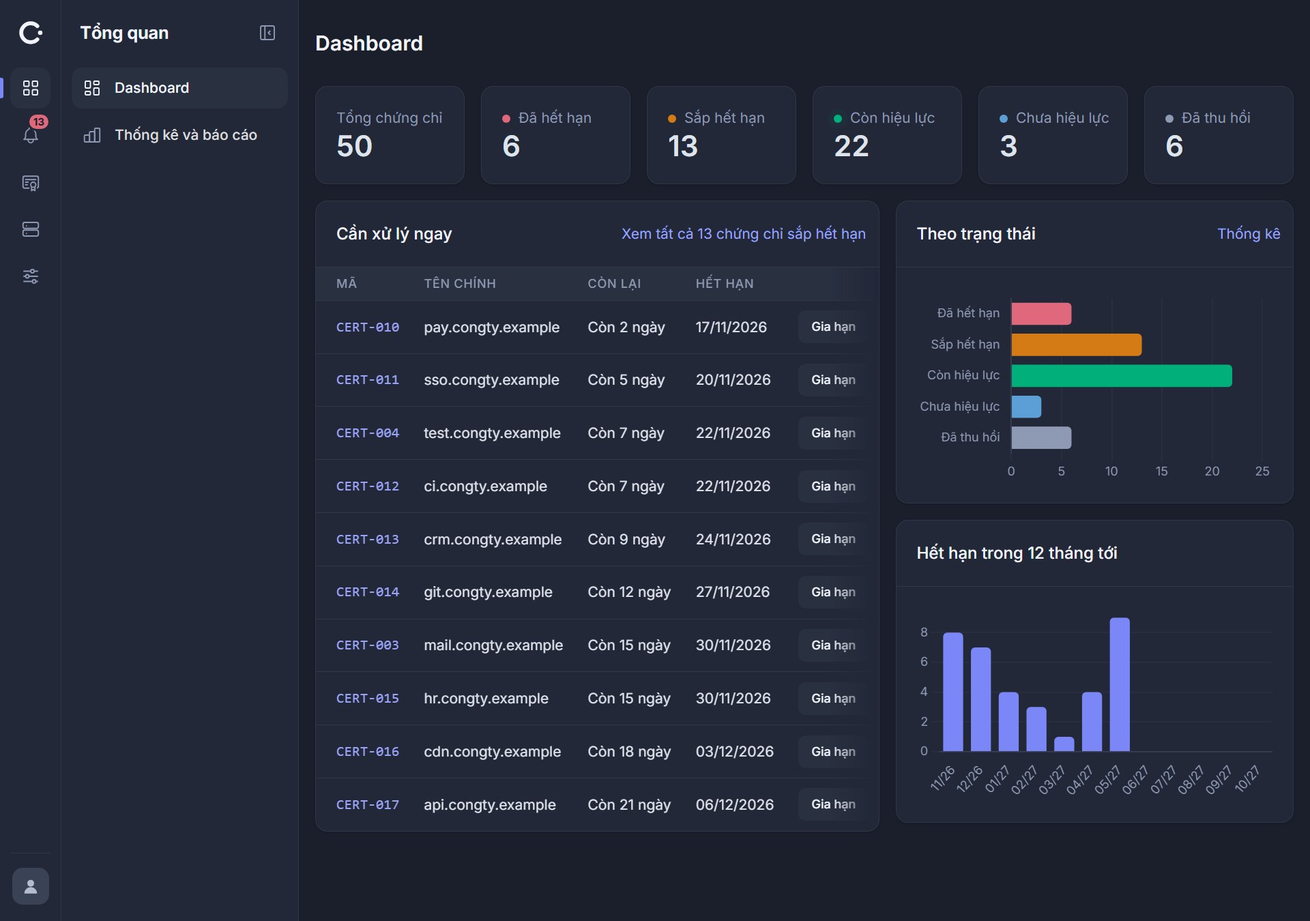
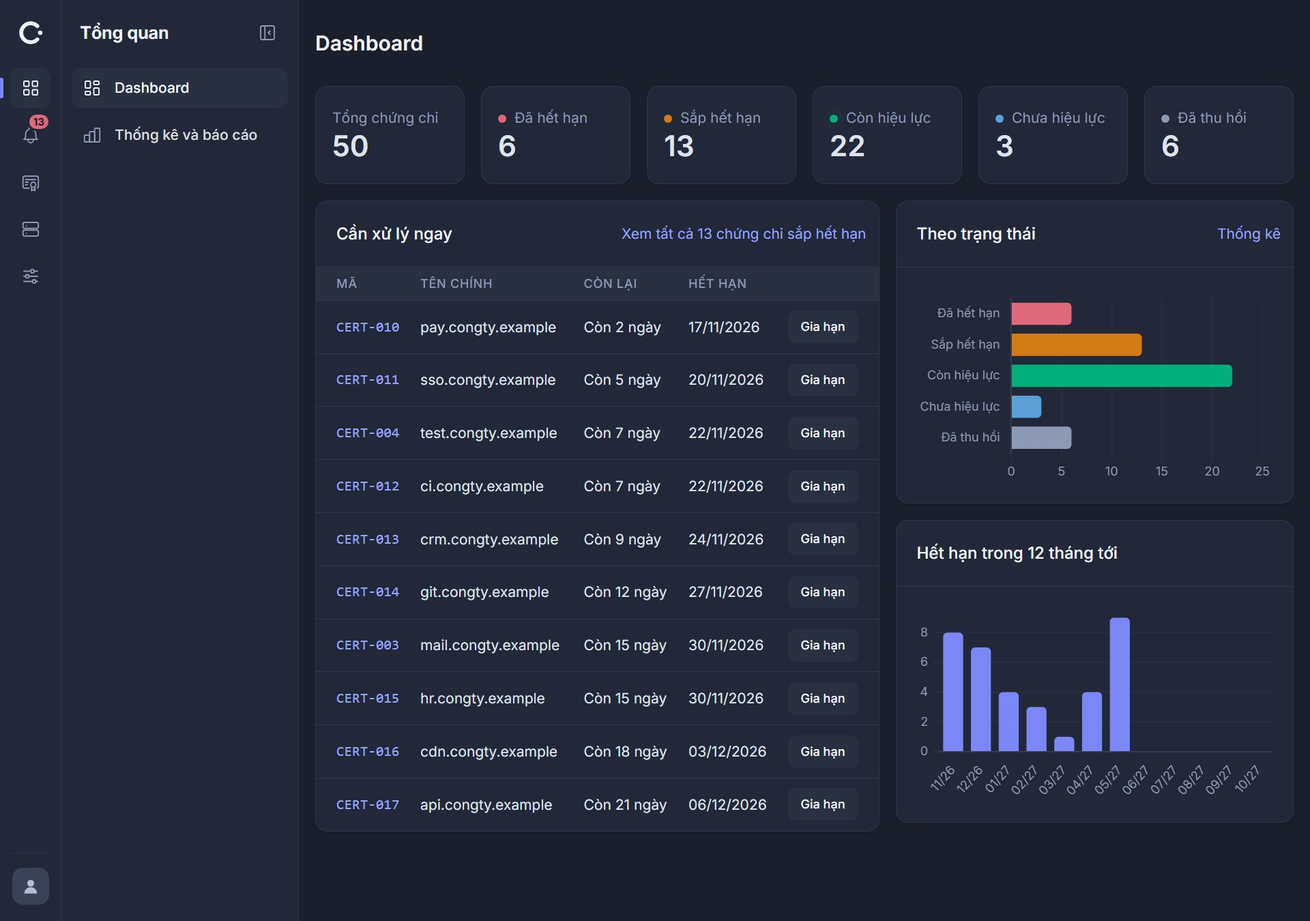
Hướng dẫn cài đặt có ảnh thật từng bước; sửa nút Gia hạn bị che ở màn 1280px và ô Sắp xếp theo bị che chữ
VÌ SAO
User 15/11/2026: "làm nốt phần trước khi nộp đi, thêm cả hướng dẫn chi tiết có ảnh nữa. Cần thì hướng dẫn tôi chụp".
Phần trước khi nộp là ba chỗ đã báo ở phiếu trước: ô Sắp xếp theo bị che chữ, ảnh sau gia hạn không thấy bảng lịch sử,
báo cáo thiếu ảnh cửa sổ CHAY.bat, XAMPP Control Panel, phpMyAdmin. Trong lúc kiểm lại tìm thêm một lỗi do chính commit
6322d55 gây ra (dưới đây).

SỬA LỖI
- Dashboard, nút Gia hạn bị che một nửa ở 1240–1270px. 6322d55 cho tên chính không xuống dòng, bảng Cần xử lý ngay (rộng
  7/12) không còn chỗ co nên tràn khung. Lần rà trước chụp đúng 1280px không có thanh cuộn nên không thấy; bề rộng thật
  của màn 1280px (hay 1920px đặt 150%) là khoảng 1265px. Sửa: bảng thêm lớp bang-cot-sat, app.css thu lề ngang của ô
  bảng đó còn 0.5rem ở 1200–1399px; cùng khoảng đó thu lề thẻ số còn 1rem để "Tổng chứng chỉ" không gãy hai dòng (lỗi có
  từ trước). Chụp lại 1240, 1265, 1351px: nút hiện đủ, nhãn một dòng. Ở 1200–1239px (hiếm) nút vẫn bị che một phần và
  kéo ngang được.
- views/bo_loc.php: 576–1199px hai ô lọc một hàng, 1200–1399px ba ô, từ 1400px sáu ô. Ba ô ở 768–1199px (6322d55) thì ô
  Sắp xếp theo rộng 208px, "Hết hạn gần nhất trước" cần 217px nên mất chữ cuối ở 768–800px và 992–1050px. Chụp 600,
  800, 1000, 1024, 1210, 1280px: hiện đủ.

BÁO CÁO
- docs/BAO_CAO.md Phần VI thêm 5 ảnh chụp từ máy thật: thu_muc_giai_nen (danh sách file sau giải nén), chay_bat (cửa
[…]

diff --git a/public/assets/app.css b/public/assets/app.css
@@ -359,6 +359,23 @@
     line-height: 1.2;
 }
 
+/* Dashboard ở 1200–1399px (màn 1280 và 1366 hay gặp): sáu thẻ số một hàng, bảng Cần xử lý ngay chỉ rộng 7/12 phần nội
+   dung. Thu lề ngang của thẻ số và của ô bảng (.bang-cot-sat), để "Tổng chứng chỉ" không gãy hai dòng và nút Gia hạn
+   không bị đẩy ra ngoài khung. Đo 15/11/2026 ở 1265px, là bề rộng thật của màn 1280px sau khi trừ thanh cuộn: trước
+   khi thu, nút Gia hạn bị che một nửa vì tên chính không còn xuống dòng. */
+@media (min-width: 1200px) and (max-width: 1399.98px) {
+    .the-so .card-body {
+        padding-left: 1rem;
+        padding-right: 1rem;
+    }
+
+    .bang-cot-sat > * > tr > td,
+    .bang-cot-sat > * > tr > th {
+        padding-left: 0.5rem;
+        padding-right: 0.5rem;
+    }
+}
+
 /* Chấm "Còn hiệu lực": vòng sáng lan ra rồi tan, 2 giây một lần, như đèn "đang chạy" (user chốt 07/11/2026).
    Vẽ bằng box-shadow nên không đẩy chữ bên cạnh; màu là màu xanh trạng thái. */
 .cham-song {

diff --git a/temp/cong_cu_bao_cao/chup_het.py b/temp/cong_cu_bao_cao/chup_het.py
@@ -1,5 +1,6 @@
 """Chụp toàn bộ ảnh giao diện cho báo cáo. Chạy: python -I chup_het.py [nhom ...]
 Nhóm: cong_khai, xem, nhan_vien, nhap_lieu, doc, nhat_ky. Không ghi nhóm thì chạy hết theo thứ tự.
+Nhóm cai_dat (chỉ chạy khi gọi tên): hai ảnh phpMyAdmin của hướng dẫn cài đặt, cần Apache của XAMPP đang bật.
 Nhóm landing (chỉ chạy khi gọi tên): chụp lại 9 ảnh public/assets/landing/*.webp; chạy TRƯỚC nhóm nhap_lieu, vì nhóm
 đó gia hạn CERT-013 là chứng chỉ của hai ảnh thẻ Chi tiết và Gia hạn."""
 import sys
@@ -94,6 +95,63 @@ def nhat_ky():
         Phien().post("/login.php", {"username": "nhanvien", "password": "doan-mo"})
     chup("nhat_ky", "/admin/nhat_ky.php", ad, h=1000)
     chup("nhat_ky_nguy_hiem", "/admin/nhat_ky.php?muc=nguy_hiem", ad, h=620)
+
+
+def cai_dat():
+    """Hai ảnh phpMyAdmin cho Phần VI của báo cáo (Cách 2). Cần Apache của XAMPP đang bật (http://localhost/phpmyadmin).
+    Giao diện tiếng Anh (cookie pma_lang=en) cho khớp chữ trong hướng dẫn. Ảnh tạo CSDL vẽ lại trạng thái máy người chấm
+    lúc CHƯA có cipher_dev: ẩn các CSDL có sẵn trên máy chụp (AN) khỏi cây bên trái và bảng, sửa dòng Total theo số dòng
+    còn lại; không bấm Create, không đụng CSDL nào. Ba ảnh còn lại của phần cài đặt chụp bằng chup_cua_so.ps1:
+      - chay_bat: conhost.exe cmd.exe /c "<bản giải nén>\\CHAY.bat", chờ 17 giây (10 giây của câu hỏi nạp lại), rồi
+        -TieuDe "Cipher Cert" -Lop ConsoleWindowClass; đóng cửa sổ là tắt web.
+      - xampp_control: chạy C:\\xampp\\apache\\bin\\httpd.exe và C:\\xampp\\xampp-control.exe, -MaTienTrinh <mã của
+        xampp-control>; ứng dụng này không theo tỉ lệ màn hình nên ảnh ra có phần thừa, cắt còn 663x433; xong thì tắt cả hai.
+      - thu_muc_giai_nen: explorer.exe <bản giải nén>, -TieuDe "cipher" -Lop CabinetWClass -VungCon UIItemsView."""
+    from chup import Cdp
+    pma = "http://localhost/phpmyadmin/"
+    an = ["cipher_dev", "cipher_test", "cipher_baocao", "demo_xampp"]
+    js_an = """
+    (function (an, anNhom) {
+        var n = 0;
+        document.querySelectorAll('#pma_navigation_tree li').forEach(function (li) {
+            var a = li.querySelector(':scope > a, :scope > a.hover_show_full');
+            var ten = a ? a.textContent.trim() : '';
+            if (an.indexOf(ten) >= 0 || (anNhom && li.className.indexOf('navGroup') >= 0 && li.textContent.trim().indexOf(anNhom) === 0)) {
+                li.style.display = 'none'; n++;
+            }
+        });
+        document.querySelectorAll('table tbody tr').forEach(function (tr) {
+            var co = false;
+            tr.querySelectorAll('a').forEach(function (a) { if (an.indexOf(a.textContent.trim()) >= 0) co = true; });
+            if (co) { tr.style.display = 'none'; n++; }
+        });
+        return n;
+    })(%s, %s)
+    """
+    js_dien = """
+    (function () {
+        document.querySelector('#text_create_db').value = 'cipher_dev';
+        document.querySelector('select[name=db_collation]').value = 'utf8mb4_unicode_ci';
+        var dem = document.getElementById('filter-rows-count'), con = 0;
+        if (dem && dem.closest('table')) {
+            dem.closest('table').querySelectorAll('tbody tr').forEach(function (tr) { if (tr.style.display !== 'none') con++; });
+            dem.textContent = con;
+        }
+        return con;
+    })()
+    """
+    c = Cdp(w=1280, h=640)
+    try:
+        c.lenh("Network.enable")
+        c.lenh("Network.setCookie", name="pma_lang", value="en", domain="localhost", path="/phpmyadmin/")
+        c.mo(pma + "index.php?route=/server/databases", cho=4)
+        print("   an", c.js(js_an % (an, '"cipher"')), "muc; con", c.js(js_dien), "CSDL trong bang")
+        c.chup("pma_tao_csdl")
+        c.mo(pma + "index.php?route=/database/import&db=cipher_dev", cho=4)
+        c.js(js_an % ([x for x in an if x != "cipher_dev"], "null"))
+        c.chup("pma_import")
+    finally:
+        c.dong()
 
 
 def landing():

diff --git a/temp/cong_cu_bao_cao/chup.py b/temp/cong_cu_bao_cao/chup.py
@@ -95,3 +95,90 @@ def luu_html(ten, html):
     thu_muc.mkdir(exist_ok=True)
     (thu_muc / f"{ten}.html").write_text(html, encoding="utf-8")
     return f"/__kq/{ten}.html"
+
+
+class Cdp:
+    """Điều khiển Chrome chạy ngầm qua cổng gỡ lỗi (Chrome DevTools Protocol), cho trang phải gõ, chọn rồi mới chụp
+    (phpMyAdmin trong hướng dẫn cài đặt). WebSocket viết tay bằng thư viện chuẩn, để không phải cài thêm gì.
+    Dùng: c = Cdp(w=1280, h=800); c.mo(url); c.js("..."); c.chup("ten"); c.dong()"""
+
+    def __init__(self, w=1280, h=800, ti_le=1.5, ngon_ngu="en-US", cong=9333):
+        import json, os, socket, time
+        self.json, self.os, self.time = json, os, time
+        self.tt = subprocess.Popen([CHROME, "--headless=new", f"--remote-debugging-port={cong}", "--remote-allow-origins=*",
+                                    "--disable-gpu", "--hide-scrollbars", "--no-first-run", f"--lang={ngon_ngu}",
+                                    f"--user-data-dir={TAM / 'chrome_cdp'}", f"--force-device-scale-factor={ti_le}",
+                                    f"--window-size={w},{h}", "about:blank"], stdout=subprocess.DEVNULL, stderr=subprocess.DEVNULL)
+        ds = None
+        for _ in range(60):
+            try:
+                ds = json.load(urllib.request.urlopen(f"http://127.0.0.1:{cong}/json"))
+                break
+            except OSError:
+                time.sleep(0.25)
+        duong = next(d for d in ds if d["type"] == "page")["webSocketDebuggerUrl"].split(f":{cong}", 1)[1]
+        self.s = socket.create_connection(("127.0.0.1", cong))
+        khoa = __import__("base64").b64encode(os.urandom(16)).decode()
+        self.s.sendall((f"GET {duong} HTTP/1.1\r\nHost: 127.0.0.1:{cong}\r\nUpgrade: websocket\r\nConnection: Upgrade\r\n"
+                        f"Sec-WebSocket-Key: {khoa}\r\nSec-WebSocket-Version: 13\r\n\r\n").encode())
+        dem = b""
+        while b"\r\n\r\n" not in dem:
+            dem += self.s.recv(4096)
+        self.du = dem.split(b"\r\n\r\n", 1)[1]
+        self.so = 0
+
+    def _doc(self, n):
+        while len(self.du) < n:
+            self.du += self.s.recv(65536)
+        d, self.du = self.du[:n], self.du[n:]
+        return d
+
+    def _nhan(self):
+        import struct
+        tin = b""
+        while True:
+            b1, b2 = self._doc(2)
+            n = b2 & 0x7F
+            if n == 126:
+                n = struct.unpack(">H", self._doc(2))[0]
+            elif n == 127:
+                n = struct.unpack(">Q", self._doc(8))[0]
+            than = self._doc(n)
+            if b1 & 0x0F in (0, 1, 2):
+                tin += than
+                if b1 & 0x80:
+                    return tin.decode("utf-8", "replace")
+
+    def lenh(self, phuong_thuc, **tham_so):
+        import struct
+        self.so += 1
+        d = self.json.dumps({"id": self.so, "method": phuong_thuc, "params": tham_so}).encode()
+        mat = self.os.urandom(4)
+        n = len(d)
+        dau = bytes([0x81]) + (bytes([0x80 | n]) if n < 126 else bytes([0x80 | 126]) + struct.pack(">H", n) if n < 65536
+                               else bytes([0x80 | 127]) + struct.pack(">Q", n))
+        self.s.sendall(dau + mat + bytes(b ^ mat[i % 4] for i, b in enumerate(d)))
+        while True:
+            tl = self.json.loads(self._nhan())
+            if tl.get("id") == self.so:
+                return tl.get("result", tl)
+
+    def mo(self, url, cho=3.0):
+        self.lenh("Page.navigate", url=url)
+        self.time.sleep(cho)
+
+    def js(self, ma, cho=0.5):
+        kq = self.lenh("Runtime.evaluate", expression=ma, awaitPromise=True, returnByValue=True)
+        self.time.sleep(cho)
+        return kq.get("result", {}).get("value")
+
+    def chup(self, ten):
+        import base64
+        ra = ANH / f"{ten}.png"
+        ra.write_bytes(base64.b64decode(self.lenh("Page.captureScreenshot", format="png")["data"]))
+        print("da chup", ra.name)
+        return ra
+
+    def dong(self):
+        self.s.close()
+        self.tt.terminate()

diff --git a/tests/chay.php b/tests/chay.php
@@ -1678,9 +1678,9 @@ function test_chu_quan_trong_trong_quan_tri_la_chu_trang(PDO $pdo): void
     kiem(str_contains($css, '--tblr-body-color: var(--qt-chu-than)'), 'Chữ thân khu quản trị phải dùng --qt-chu-than (trắng ngà)');
 }
 
-// Luật: Mọi bảng của khu quản trị hiện đủ cột ở mọi cỡ màn hình; dưới 1200px chữ không xuống dòng (trừ ô dài đánh dấu o-xuong-dong) và bảng tràn thì kéo ngang; tên chính ở bảng Cần xử lý ngay của Dashboard không xuống dòng ở mọi cỡ. Trang danh sách chứng chỉ không có nút Thêm riêng.
+// Luật: Mọi bảng của khu quản trị hiện đủ cột ở mọi cỡ màn hình; dưới 1200px chữ không xuống dòng (trừ ô dài đánh dấu o-xuong-dong) và bảng tràn thì kéo ngang; tên chính ở bảng Cần xử lý ngay của Dashboard không xuống dòng ở mọi cỡ, và ở 1200–1399px bảng đó thu lề ô để nút Gia hạn không bị đẩy ra ngoài khung. Trang danh sách chứng chỉ không có nút Thêm riêng.
 // Vì sao: User 09/11/2026: "trên điện thoại bị cắt nhiều thông tin. Tôi muốn khi tràn thông tin thì phải được quyền kéo sang trái để xem", rồi "áp cùng" cho mọi bảng; nút Thêm chứng chỉ đã có trong bảng phụ. Rà 15/11/2026: ở 1024px còn bảng phụ bên trái nên bảng Danh sách gãy tên chính ba dòng, mốc nâng từ 992px lên 1200px.
-// Đỏ nghĩa là: Một cột lại ẩn theo cỡ màn hình (d-none ... -table-cell), một bảng card-table thiếu lớp bang-keo-ngang, chung_chi.php đặt lại $nutThem, mốc không xuống dòng trong app.css tụt khỏi 1200px, hoặc ô tên chính của Dashboard mất text-nowrap.
+// Đỏ nghĩa là: Một cột lại ẩn theo cỡ màn hình (d-none ... -table-cell), một bảng card-table thiếu lớp bang-keo-ngang, chung_chi.php đặt lại $nutThem, mốc không xuống dòng trong app.css tụt khỏi 1200px, ô tên chính của Dashboard mất text-nowrap, hoặc bảng Dashboard mất lớp bang-cot-sat (ở 1265px, bề rộng thật của màn 1280px, nút Gia hạn bị che một nửa; đo 15/11/2026).
 // Đừng: Ẩn cột hay dồn thông tin xuống dòng phụ chỉ hiện trên điện thoại cho "vừa màn hình"; người dùng muốn kéo để xem đủ.
 // Nhóm: Giao diện, triển khai (Giao diện)
 function test_moi_bang_quan_tri_keo_ngang_tren_dien_thoai(PDO $pdo): void
@@ -1699,6 +1699,8 @@ function test_moi_bang_quan_tri_keo_ngang_tren_dien_thoai(PDO $pdo): void
     kiem(preg_match('/@media \(max-width: 1199\.98px\) \{\s*\.bang-keo-ngang td,\s*\.bang-keo-ngang th \{\s*white-space: nowrap/', $css) === 1, 'Dưới 1200px ô của bảng kéo ngang không được xuống dòng');
     kiem(str_contains(file_get_contents(__DIR__ . '/../public/admin/index.php'), '<td class="text-nowrap"><?= tenMienNgatDong($dong[\'subject_cn\']) ?></td>'), 'Tên chính ở bảng Cần xử lý ngay phải là ô text-nowrap');
     kiem(preg_match('/^\.bang-keo-ngang td\.text-nowrap wbr \{\s*display: none/m', $css) === 1, 'Ô text-nowrap của bảng kéo ngang phải ẩn <wbr> (Chrome vẫn ngắt ở <wbr> dù nowrap)');
+    kiem(str_contains(file_get_contents(__DIR__ . '/../public/admin/index.php'), 'card-table bang-keo-ngang bang-cot-sat"'), 'Bảng Cần xử lý ngay phải có lớp bang-cot-sat');
+    kiem(preg_match('/@media \(min-width: 1200px\) and \(max-width: 1399\.98px\) \{[^@]*\.bang-cot-sat > \* > tr > td,\s*\.bang-cot-sat > \* > tr > th \{\s*padding-left: 0\.5rem;\s*padding-right: 0\.5rem;/', $css) === 1, 'Ở 1200–1399px ô của bảng bang-cot-sat phải thu lề ngang còn 0.5rem');
 }
 
 // Luật: Web chỉ có giao diện tối: thẻ <html> luôn data-bs-theme="dark", không nạp tabler-theme.min.js, không còn nút hay mục đổi giao diện.

diff --git a/views/bo_loc.php b/views/bo_loc.php
@@ -51,27 +51,29 @@ $soLocTrongPhanGon = count(array_intersect_key($locDangDung, array_flip(['het_ha
             <?php endif; ?>
         </div>
         <div class="collapse <?= $soLocTrongPhanGon > 0 ? 'show' : '' ?>" id="bo-loc-them">
-            <?php // Lưới ô lọc (rà 15/11/2026): sáu ô một hàng chỉ từ 1400px; hẹp hơn thì ba ô một hàng, vì chia sáu ở
-                  // 1024–1366px ô ngày chỉ còn "dd/m", ô chọn còn "Tấ". Điện thoại: hai ô ngày một hàng, mỗi ô chọn một hàng. ?>
+            <?php // Lưới ô lọc (rà 15/11/2026): sáu ô một hàng chỉ từ 1400px, vì chia sáu ở 1024–1366px ô ngày chỉ còn "dd/m",
+                  // ô chọn còn "Tấ". 1200–1399px ba ô một hàng; 576–1199px hai ô một hàng (ba ô thì ô Sắp xếp theo chỉ rộng
+                  // 208px, "Hết hạn gần nhất trước" cần 217px nên bị che chữ cuối). Điện thoại: hai ô ngày một hàng, mỗi ô
+                  // chọn một hàng. ?>
             <div class="row mt-3">
-                <div class="col-6 col-md-4 col-xxl">
+                <div class="col-6 col-xl-4 col-xxl">
                     <?= oNhap('het_han_tu', 'Hết hạn từ ngày', $loc['het_han_tu'], [], 'type="date"') ?>
                 </div>
-                <div class="col-6 col-md-4 col-xxl">
+                <div class="col-6 col-xl-4 col-xxl">
                     <?= oNhap('het_han_den', 'Đến ngày', $loc['het_han_den'], [], 'type="date"') ?>
                 </div>
-                <div class="col-12 col-sm-6 col-md-4 col-xxl">
+                <div class="col-12 col-sm-6 col-xl-4 col-xxl">
                     <?= oChon('ca_id', 'Tổ chức cấp', $cacToChuc, $loc['ca_id'], [], '', false) ?>
                 </div>
-                <div class="col-12 col-sm-6 col-md-4 col-xxl">
+                <div class="col-12 col-sm-6 col-xl-4 col-xxl">
                     <?= oChon('domain_id', 'Tên miền', $cacTenMien, $loc['domain_id'], [], '', false) ?>
                 </div>
-                <div class="col-12 col-sm-6 col-md-4 col-xxl">
+                <div class="col-12 col-sm-6 col-xl-4 col-xxl">
                     <?= oChon('server_id', 'Máy chủ', $cacMayChu, $loc['server_id'], [], '', false) ?>
                 </div>
                 <?php if ($coChonSapXep): ?>
                     <?php // Rộng hơn các ô khác ở màn lớn: nhãn dài nhất ("Hết hạn gần nhất trước") bị cắt khi chia đều sáu ô. ?>
-                    <div class="col-12 col-sm-6 col-md-4 col-xxl-3">
+                    <div class="col-12 col-sm-6 col-xl-4 col-xxl-3">
                         <label class="form-label" for="xep">Sắp xếp theo</label>
                         <select class="form-select" id="xep" name="xep">
                             <?php foreach ($cacCachXep as $giaTri => $nhan): ?>

diff --git a/scripts/tao_bao_cao.py b/scripts/tao_bao_cao.py
@@ -142,8 +142,13 @@ def thanh_html(than: str) -> str:
 
     def the_hinh(so_hinh: int, duong: Path, chu: str) -> str:
         rong, cao = Image.open(duong).size
-        # Ảnh khổ điện thoại (hẹp và cao) để nhỏ; còn lại rộng hết trang, trừ khi quá cao.
-        rong_cm = 6.5 if rong / cao < 0.6 and rong < 900 else min(RONG_TRANG_CM, CAO_HINH_CM * rong / cao)
+        # Ảnh khổ điện thoại (hẹp và cao) để nhỏ; ảnh cửa sổ nhỏ (XAMPP Control Panel, thư mục giải nén: dưới 900 điểm
+        # ảnh) in theo cỡ thật khoảng 11 cm, kéo hết trang thì chữ to gấp rưỡi chữ báo cáo và mờ; còn lại rộng hết
+        # trang, trừ khi quá cao.
+        if rong < 900:
+            rong_cm = 6.5 if rong / cao < 0.6 else min(RONG_TRANG_CM, rong / 60)
+        else:
+            rong_cm = min(RONG_TRANG_CM, CAO_HINH_CM * rong / cao)
         diem = rong_cm / 2.54 * 72
         return (f'\n\n<p class="hinh"><img src="{duong.as_uri()}" width="{diem * 96 / 72:.0f}" height="{diem * cao / rong * 96 / 72:.0f}"></p>\n'
                 f'<p class="chu-thich">Hình {so_hinh}. {html.escape(chu)}</p>\n\n')

diff --git a/public/admin/index.php b/public/admin/index.php
@@ -57,7 +57,7 @@ require __DIR__ . '/../../views/tieu_de_trang.php';
                         </div>
                     </div>
                     <div class="table-responsive">
-                        <table class="table table-vcenter card-table bang-keo-ngang">
+                        <table class="table table-vcenter card-table bang-keo-ngang bang-cot-sat">
                             <thead>
                                 <tr>
                                     <th>Mã</th>

diff --git a/docs/BAO_CAO.md b/docs/BAO_CAO.md
@@ -375,9 +375,17 @@ dùng bản chạy thật tại <https://cert.cipher.id.vn>.
 2. Bấm đúp **`CHAY.bat`**. Không cần mở XAMPP Control Panel trước.
 3. Trình duyệt tự mở trang giới thiệu. Bấm **Đăng nhập**, dùng tài khoản ở mục 3.
 
+![Thư mục sau khi giải nén: bấm đúp CHAY, file có biểu tượng bánh răng (Windows thường ẩn đuôi .bat)](anh/thu_muc_giai_nen.jpg)
+
 Cửa sổ đen làm thay người dùng 4 bước, mỗi bước in một dòng `[1/4]` … `[4/4]`: tìm XAMPP, bật MySQL nếu chưa bật,
 lần đầu tự tạo CSDL `cipher_dev` và nạp dữ liệu mẫu (50 chứng chỉ, 2 tài khoản), rồi chạy web ở
 <http://localhost:8000> (cổng bận thì dùng 8001, 8002...). **Đóng cửa sổ đen là tắt web.**
+
+![Cửa sổ của CHAY.bat: bốn bước từ 1/4 đến 4/4, địa chỉ web, hai tài khoản, rồi nhật ký từng trang được mở. Ảnh chụp ở lần bấm thứ hai nên bước 3/4 hỏi có nạp lại dữ liệu mẫu không](anh/chay_bat.jpg)
+
+Lần bấm đầu tiên, bước `[3/4]` không hỏi mà ghi `Dang tao CSDL cipher_dev va nap du lieu mau...`, kèm tên ba file
+được nạp và dòng `Xong: 50 chung chi mau, 2 tai khoan.` Chữ `admin`, `khach` ở cuối mỗi dòng nhật ký là người mở trang
+(`khach` là chưa đăng nhập).
 
 - **Lần bấm sau:** cửa sổ hỏi có nạp lại dữ liệu mẫu không. Bấm `K` hoặc chờ 10 giây là giữ nguyên dữ liệu
   đang có; bấm `C` là xoá hết và nạp lại từ đầu.
@@ -398,11 +406,15 @@ tiếng Việt có dấu.
 **Bước 1. Bật Apache và MySQL.** Mở **XAMPP Control Panel**, bấm **Start** ở dòng **Apache** và dòng
 **MySQL**. Cả hai chuyển sang nền xanh là được.
 
+![XAMPP Control Panel: tên Apache và MySQL có nền xanh, cột PID(s) và Port(s) có số (80, 443 và 3306) là hai dịch vụ đã chạy](anh/xampp_control.jpg)
+
 **Bước 2. Chép bài vào `htdocs`.** Chép cả thư mục bài vào `C:\xampp\htdocs` và đặt tên thư mục là
 `cipher` (chữ thường, không dấu cách). Kiểm tra: phải có file `C:\xampp\htdocs\cipher\public\index.php`.
 
 **Bước 3. Tạo CSDL.** Mở <http://localhost/phpmyadmin>. Bấm **New** (Mới) ở cột trái. Ô tên gõ `cipher_dev`,
 ô bên cạnh chọn `utf8mb4_unicode_ci`, bấm **Create** (Tạo).
+
+![phpMyAdmin, mục New ở đầu cột trái: gõ tên cipher_dev, chọn utf8mb4_unicode_ci rồi bấm Create](anh/pma_tao_csdl.jpg)
 
 **Bước 4. Nạp dữ liệu, đúng thứ tự 3 file.** Ở cột trái bấm vào `cipher_dev`, chọn tab **Import** (Nhập),
 bấm **Choose File** (Chọn tệp), chọn file, kéo xuống cuối bấm **Import** (Nhập). Làm lần lượt:
@@ -413,8 +425,11 @@ bấm **Choose File** (Chọn tệp), chọn file, kéo xuống cuối bấm **I
 | 2 | `database\seed.sql` | 2 tài khoản, danh mục, 9 chứng chỉ đủ mọi trạng thái và mốc cảnh báo |
 | 3 | `database\seed_demo.sql` | Thêm 41 chứng chỉ cho đủ 50, để biểu đồ và phân trang có số liệu |
 
+![Tab Import của cipher_dev: bấm Choose File để chọn từng file .sql, rồi kéo xuống cuối trang bấm Import. Ảnh chụp sau khi đã nạp nên cột trái đã có 9 bảng](anh/pma_import.jpg)
+
 Mỗi file nạp xong, phpMyAdmin báo một dòng xanh: "Import has been successfully finished" (giao diện tiếng
-Việt: "Việc nhập vào đã được thực hiện thành công"). Lỡ nạp sai thứ tự thì nạp lại từ file 1.
+Việt: "Việc nhập vào đã được thực hiện thành công"). Lỡ nạp sai thứ tự thì nạp lại từ file 1. phpMyAdmin hiện tiếng
+Anh hay tiếng Việt là theo ngôn ngữ của trình duyệt; vị trí các nút như nhau.
 
 **Bước 5. Mở web.** Vào <http://localhost/cipher/public/>. Nhớ có `/public/` ở cuối: các trang web nằm trong
 thư mục này, còn cấu hình và mã xử lý để ngoài (trên máy chủ thật, chúng không mở được từ trình duyệt).

diff --git a/VIECDANGLAM.md b/VIECDANGLAM.md
@@ -1,2 +1,14 @@
 # 🎯 VIỆC ĐANG LÀM
 > Phiếu bị GHI ĐÈ ở việc kế tiếp. Xong việc thì để trống, chừa đúng dòng tiêu đề.
+
+### Làm nốt phần trước khi nộp + hướng dẫn cài đặt có ảnh (user giao 15/11/2026: "làm nốt phần trước khi nộp đi, thêm cả hướng dẫn chi tiết có ảnh nữa. Cần thì hướng dẫn tôi chụp")
+**Một câu:** sửa hai chỗ nhỏ còn lại sau đợt rà giao diện và thêm ảnh thật (cửa sổ `CHAY.bat`, XAMPP Control Panel, phpMyAdmin) vào Phần VI của báo cáo, rồi dựng lại báo cáo, gói nộp, VPS.
+**Coi là XONG khi:** (1) ô Sắp xếp theo không còn bị che chữ ở 768–1050px; (2) ảnh "sau khi gia hạn" thấy bảng Lịch sử gia hạn như chú thích; (3) Phần VI có ảnh từng bước của Cách 1 và Cách 2, chụp từ máy thật; (4) 3 lệnh nghiệm thu và `--tai-lieu` xanh; báo cáo, `D:\Music\cipher.zip` dựng lại; VPS cập nhật, `kiem` xanh.
+**CỐ Ý KHÔNG làm:** đổi `CHAY.bat`, đổi hành vi web; xoá hay nạp lại `cipher_dev` (ảnh `CHAY.bat` chụp ở lần bấm sau, giữ dữ liệu); sửa cấu hình XAMPP của máy; đưa ảnh vào `cipher.zip` (README trong gói vẫn là chữ).
+
+### Kế hoạch
+1. `views/bo_loc.php`: dưới 1200px hai ô một hàng, 1200–1399px ba ô, từ 1400px sáu ô (ba ô ở 768–1199px thì ô chọn chỉ 208px, lựa chọn dài nhất cần 217px).
+2. Chụp lại `gia_han_xong` cao hơn; dựng lại môi trường chụp như thân commit 39a46aa (CSDL tạm `cipher_baocao`, cổng 8765), xong tắt, xoá.
+3. Ảnh cài đặt: cửa sổ `CHAY.bat` (chạy bản giải nén ở thư mục tạm, chờ 10 giây để giữ dữ liệu, chụp, đóng); XAMPP Control Panel (bật Apache tạm để hai dòng cùng xanh, chụp, tắt Apache, đóng); phpMyAdmin (trang tạo CSDL, tab Import, dòng báo nhập xong; trên CSDL tạm, không phải `cipher_dev`). Không chụp được cái nào thì hướng dẫn user chụp cái đó.
+4. `docs/BAO_CAO.md` Phần VI: chèn ảnh theo bước; `python scripts/tao_bao_cao.py`; so PDF; đóng gói; push + `cap_nhat` + `kiem`.
+- Rủi ro: bật Apache tạm trên máy user (cổng 80), `CHAY.bat` mở một tab trình duyệt. Lùi: `git revert`; ảnh cũ còn trong git.

diff --git a/docs/KIEM_THU.md b/docs/KIEM_THU.md
@@ -245,7 +245,7 @@ Cột phải là câu Luật của test. Cả 135 test đều **đạt** ngày 1
 | `trang_dang_nhap_cao_theo_man_hinh_nhin_thay_va_form_nhich_len` | Trang đăng nhập cao đúng phần màn hình nhìn thấy (100svh) và form nhích lên trên tâm, không nằm đúng giữa. |
 | `mau_trang_thai_theo_mot_bo_bien_va_chi_to_chi_tiet_nho` | Màu trạng thái lấy từ một bộ biến (--cc-xanh, --cc-vang, --cc-cam, --cc-do theo Better Stack); thẻ chứng chỉ chỉ tô màu trạng thái ở chi tiết nhỏ, số lớn và quầng sáng không đổi màu theo trạng thái. |
 | `chu_quan_trong_trong_quan_tri_la_chu_trang` | Chữ quan trọng trong khu quản trị là chữ trắng (tên mục menu, tiêu đề trang, tiêu đề thẻ, chữ trong bảng); màu xám chỉ cho chữ phụ và biểu tượng. |
-| `moi_bang_quan_tri_keo_ngang_tren_dien_thoai` | Mọi bảng của khu quản trị hiện đủ cột ở mọi cỡ màn hình; dưới 1200px chữ không xuống dòng (trừ ô dài đánh dấu o-xuong-dong) và bảng tràn thì kéo ngang; tên chính ở bảng Cần xử lý ngay của Dashboard không xuống dòng ở mọi cỡ. Trang danh sách chứng chỉ không có nút Thêm riêng. |
+| `moi_bang_quan_tri_keo_ngang_tren_dien_thoai` | Mọi bảng của khu quản trị hiện đủ cột ở mọi cỡ màn hình; dưới 1200px chữ không xuống dòng (trừ ô dài đánh dấu o-xuong-dong) và bảng tràn thì kéo ngang; tên chính ở bảng Cần xử lý ngay của Dashboard không xuống dòng ở mọi cỡ, và ở 1200–1399px bảng đó thu lề ô để nút Gia hạn không bị đẩy ra ngoài khung. Trang danh sách chứng chỉ không có nút Thêm riêng. |
 | `web_chi_co_giao_dien_toi` | Web chỉ có giao diện tối: thẻ <html> luôn data-bs-theme="dark", không nạp tabler-theme.min.js, không còn nút hay mục đổi giao diện. |
 | `ban_in_luon_nen_trang_chu_toi` | Bản in luôn nền trắng chữ tối, dù màn hình là giao diện tối. |
 | `menu_quan_tri_hai_tang_nam_khu` | Menu quản trị hai tầng theo app Better Stack: thanh khu Tổng quan, Cảnh báo, Chứng chỉ, Hạ tầng (+ Hệ thống cho Admin), bảng phụ chỉ cho khu nhiều trang, tài khoản ở đáy thanh; điện thoại là ngăn kéo trượt từ phải. |

diff --git a/README.md b/README.md
@@ -22,7 +22,7 @@ Có hai cách chạy trên máy Windows đã cài [XAMPP](https://www.apachefrie
 
 Cửa sổ đen làm thay bạn: tìm XAMPP, bật MySQL nếu chưa bật, lần đầu tự tạo CSDL `cipher_dev` và nạp dữ liệu
 mẫu (50 chứng chỉ, 2 tài khoản), rồi chạy web ở <http://localhost:8000> (cổng bận thì dùng 8001, 8002...).
-**Đóng cửa sổ đen là tắt web.**
+**Đóng cửa sổ đen là tắt web.** Ảnh từng bước của cả hai cách có trong file báo cáo nộp kèm, Phần VI.
 
 - **Lần bấm sau:** cửa sổ hỏi có nạp lại dữ liệu mẫu không. Bấm `K` hoặc chờ 10 giây là giữ nguyên dữ liệu
   đang có; bấm `C` là xoá hết và nạp lại từ đầu.
